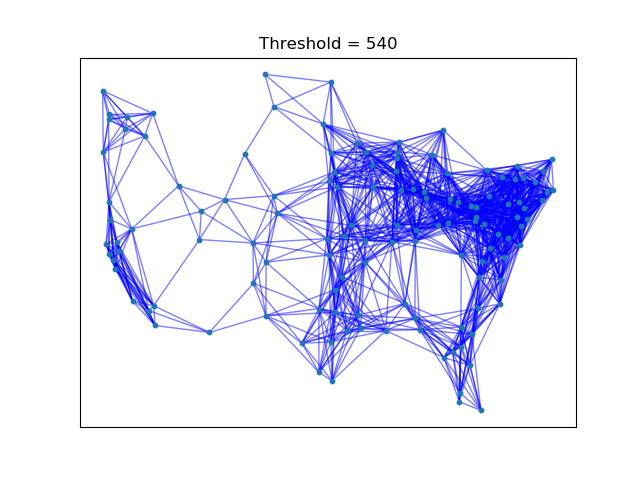
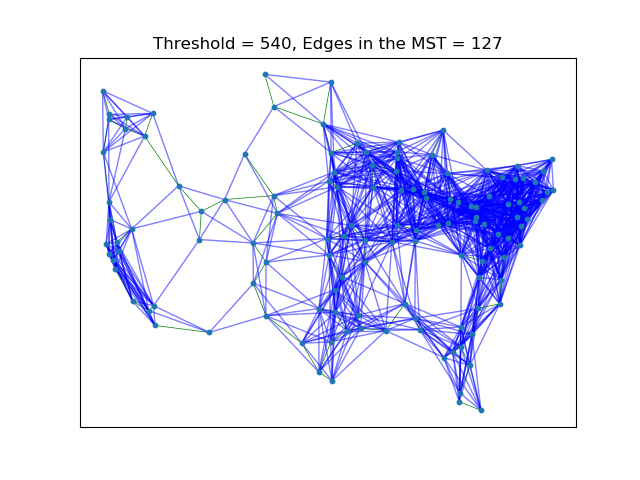
Thanks Shiv

diff --git a/Assignments/Assignment_PS5b/MST_starter_code.py b/Assignments/Assignment_PS5b/MST_starter_code.py
@@ -92,16 +92,29 @@ def find(vertex):
 
 ####################################################################################
 
+#Take 2 verts, find components
+#Find the smaller of the components
+#Change leaders of all verts in smaller component to larger comp
+	# Adjust leader_dict
+#Add verts in smaller components to larger components
+	# Adjust components[]
+def union(u, v):
+	comp_u = find(u) # This is the component leader of vertex 'u'
+	comp_v = find(v) # This is the component leader of vertex 'v'
+	
+	if(len(components[comp_u]) > len(components[comp_v])): #First component is larger
+		#Change leaders of elements in components[comp_v] to leader of components[comp_u]
+		#Extend components[comp_u] with components[comp_v]
+		for i in components[comp_v]:
+			leader_dict[i] = leader_dict[comp_u]
+		components[comp_u].extend(components[comp_v])
 
-def union(C_i, C_j):
-    if(len(components[C_i]) > len(components[C_j])): #One set is larger than the other
-    	for i in components[C_j]:
-    		leader_dict[i] = leader_dict[C_i]
-    else: #Either the other set is larger or they are the same size
-    	for i in components[C_i]:
-    		leader_dict[i] = leader_dict[C_j]
-
-
+	else: #Either the other component is larger or they are the same size
+		#Change leaders of elements in components[comp_s] to leader of components[comp_v]
+		#Extend components[comp_v] with components[comp_u]
+		for i in components[comp_u]:
+			leader_dict[i] = leader_dict[comp_v]
+		components[comp_v].extend(components[comp_u])
 
 if __name__ == '__main__':
     ########## DO NOT MODIFY THE CODE IN THIS BLOCK ################################
@@ -153,20 +166,15 @@ if __name__ == '__main__':
     # and use it along with the find() to write Kruskal's algorithm to populate
     # 'kruskal_selected_edges' list
     # You are allowed to change the signature of the union function
-    for i in sorted_edges:
-    	if(find(i[0]) != find(i[1])): #Find leader of u and v in (u,v)
-    		union(i[0], i[1]) #Merge both together
-    
-    largest_comp = []
-    for i in components.keys():
-    	if(len(components[i]) > len(largest_comp)):
-    		largest_comp = components[i]
 
-    
+    for u, v in sorted_edges:
+    	if(find(u) != find(v)): #Find leader of u and v in (u,v)
+    		kruskal_selected_edges.append((u,v))
+    		union(u, v) #Merge both together
 
 
     # Do not remove this line, it will save the MST as a figure for you
     draw_graph(G, kruskal_selected_edges, sorted_edges)
 
-    for i in kruskal_selected_edges:
-	    print(i)
+    # for i in kruskal_selected_edges:
+	   #  print(i)
